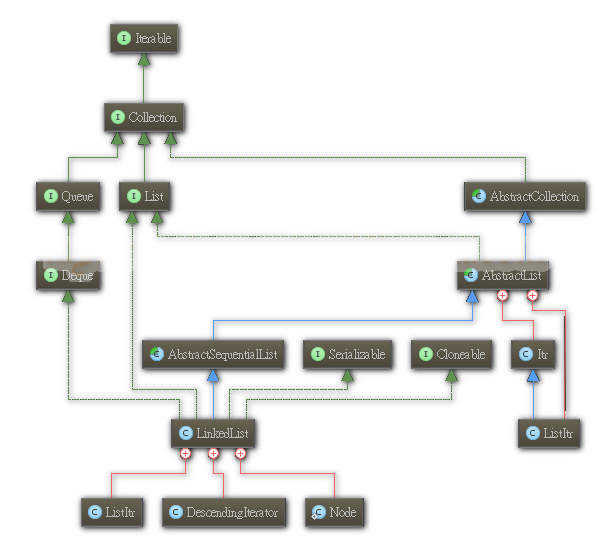
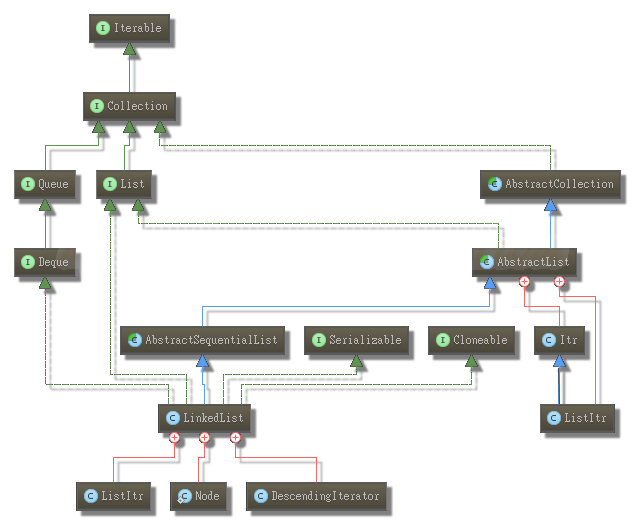
Collections -- LinkedList 相關 【由於 LinkedList 引用了Deque，所以先學習Queue相關 ,現在回來學習 LinkedList

Changed region(s): [[0.0, 0.0, 1.0, 1.0]]

diff --git a/source/_posts/Collections-LinkedBlockingDeque.md b/source/_posts/Collections-LinkedBlockingDeque.md
@@ -6,16 +6,274 @@ tags:
 - JDK1.7
 ---
 > 簡介：JDK 1.7 Collections 之 LinkedBlockingDeque 詳解 (十二)
-> _由於LinkedList引用了Deque,所以這一節先學習Queue接口相關_
+> _由於LinkedList引用了Deque,所以這一節先學習Queue接口相關，本實現類使用了JUC下的ReentrantLock鎖類，該類在學習鎖時詳細學習_
 > 這一節主要學習集合框架中的 LinkedBlockingDeque 成員屬性、方法等具體實現
 > 相關源碼分析及詳細api文檔移路→[Collection接口https://github.com/myhongkongzhen/pro-study-jdk/](https://github.com/myhongkongzhen/pro-study-jdk/tree/master/src/main/java/z/z/w/jdk/collections)
 
 <!--more-->
 
 ### LinkedBlockingDeque 說明:
+> 三個內部類
+```
+static final class Node<E> { ... } // 雙向列表節點
+private abstract class AbstractItr implements Iterator<E> { ... } // 迭代器抽象類
+private class Itr extends AbstractItr { ... } // 升序
+private class DescendingItr extends AbstractItr { .. } // 降序
+```
+> 線程安全的實現方式
+```
+final ReentrantLock lock = new ReentrantLock();
+private final Condition notEmpty = lock.newCondition();
+private final Condition notFull = lock.newCondition();
+```
 
 ### LinkedBlockingDeque UML:
 <img src="/images/Collections/Collection-LinkedBlockingDeque.png"  />
 
 ### LinkedBlockingDeque 源碼解析:
+```
 
+	/** Doubly-linked list node class */
+	/** 雙端鏈錶節點類 */
+	static final class Node<E> {
+		/**
+		 * The item, or null if this node has been removed.
+		 * 條目，如果已經刪除，則為null
+		 */
+		E item;
+
+		/**
+		 * One of:
+		 * - the real predecessor Node
+		 * - 真實的前任節點
+		 * - this Node, meaning the predecessor is tail
+		 * - 這個節點，意味著前任為結尾
+		 * - null, meaning there is no predecessor
+		 * - null，意味著沒有前任
+		 */
+		Node<E> prev;
+
+		/**
+		 * One of:
+		 * - the real successor Node
+		 * - 真實的後繼
+		 * - this Node, meaning the successor is head
+		 * - 節點，意味著後繼為頭
+		 * - null, meaning there is no successor
+		 * - null,意味著沒有後繼
+		 */
+		Node<E> next;
+
+		Node(E x) {
+			item = x;
+		}
+	}
+
+	/** Main lock guarding all access */
+	/** 所有存儲訪問的主要守護鎖 */
+	final ReentrantLock lock = new ReentrantLock();
+
+	/** Condition for waiting takes 等待取出條件 */
+	private final Condition notEmpty = lock.newCondition();
+
+	/** Condition for waiting puts 等待放置條件 */
+	private final Condition notFull = lock.newCondition();
+
+	/**
+	 * Creates a {@code LinkedBlockingDeque} with a capacity of
+	 * {@link Integer#MAX_VALUE}, initially containing the elements of
+	 * the given collection, added in traversal order of the
+	 * collection's iterator.
+	 * 按照添加的集合迭代遍歷順序
+	 *
+	 * @param c the collection of elements to initially contain
+	 * @throws NullPointerException if the specified collection or any
+	 *         of its elements are null
+	 *         如果指定的集合或者他的任意元素為null，拋出異常
+	 */
+	public LinkedBlockingDeque( Collection<? extends E> c) {
+		this(Integer.MAX_VALUE);
+		final ReentrantLock lock = this.lock;
+		lock.lock(); // Never contended, but necessary for visibility
+		try {
+			for (E e : c) {
+				if (e == null)
+					throw new NullPointerException();
+				if (!linkLast(new Node<E>(e)))
+					throw new IllegalStateException("Deque full");
+			}
+		} finally {
+			lock.unlock();
+		}
+	}
+
+	/**
+	 * Returns the number of additional elements that this deque can ideally
+	 * 返回隊列理想情況無阻賽訪問的元素的數量
+	 * (in the absence of memory or resource constraints) accept without
+	 * (在內存不足或資源)
+	 * blocking. This is always equal to the initial capacity of this deque
+	 * less the current {@code size} of this deque.
+	 *
+	 * <p>Note that you <em>cannot</em> always tell if an attempt to insert
+	 * an element will succeed by inspecting {@code remainingCapacity}
+	 * because it may be the case that another thread is about to
+	 * insert or remove an element.
+	 */
+	public int remainingCapacity() {
+		final ReentrantLock lock = this.lock;
+		lock.lock();
+		try {
+			return capacity - count;
+		} finally {
+			lock.unlock();
+		}
+	}
+
+	/**
+	 * Returns an array containing all of the elements in this deque, in
+	 * proper sequence; the runtime type of the returned array is that of
+	 * the specified array.  If the deque fits in the specified array, it
+	 * is returned therein.  Otherwise, a new array is allocated with the
+	 * runtime type of the specified array and the size of this deque.
+	 *
+	 * <p>If this deque fits in the specified array with room to spare
+	 * (i.e., the array has more elements than this deque), the element in
+	 * the array immediately following the end of the deque is set to
+	 * {@code null}.
+	 *
+	 * <p>Like the {@link #toArray()} method, this method acts as bridge between
+	 * array-based and collection-based APIs.  Further, this method allows
+	 * precise control over the runtime type of the output array, and may,
+	 * 精確
+	 * under certain circumstances, be used to save allocation costs.
+	 *               情況
+	 *
+	 * <p>Suppose {@code x} is a deque known to contain only strings.
+	 * The following code can be used to dump the deque into a newly
+	 * allocated array of {@code String}:
+	 *
+	 * <pre>
+	 *     String[] y = x.toArray(new String[0]);</pre>
+	 *
+	 * Note that {@code toArray(new Object[0])} is identical in function to
+	 * {@code toArray()}.
+	 *
+	 * @param a the array into which the elements of the deque are to
+	 *          be stored, if it is big enough; otherwise, a new array of the
+	 *          same runtime type is allocated for this purpose
+	 * @return an array containing all of the elements in this deque
+	 * @throws ArrayStoreException if the runtime type of the specified array
+	 *         is not a supertype of the runtime type of every element in
+	 *         this deque
+	 * @throws NullPointerException if the specified array is null
+	 */
+	@SuppressWarnings("unchecked")
+	public <T> T[] toArray(T[] a) {
+		final ReentrantLock lock = this.lock;
+		lock.lock();
+		try {
+			if (a.length < count)
+				a = (T[])java.lang.reflect.Array.newInstance
+						(a.getClass().getComponentType(), count);
+
+			int k = 0;
+			for (Node<E> p = first; p != null; p = p.next)
+				a[k++] = (T)p.item;
+			if (a.length > k)
+				a[k] = null;
+			return a;
+		} finally {
+			lock.unlock();
+		}
+	}
+
+// 插入刪除主要操作
+
+	// Basic linking and unlinking operations, called only while holding lock
+
+	/**
+	 * Links node as first element, or returns false if full.
+	 */
+	private boolean linkFirst(Node<E> node) {
+		// assert lock.isHeldByCurrentThread();
+		if (count >= capacity)
+			return false;
+		Node<E> f = first;
+		node.next = f;
+		first = node;
+		if (last == null)
+			last = node;
+		else
+			f.prev = node;
+		++count;
+		notEmpty.signal();
+		return true;
+	}
+
+	/**
+	 * Links node as last element, or returns false if full.
+	 * 連邊節點最後一個元素，或者如果full返回false
+	 */
+	private boolean linkLast(Node<E> node) {
+		// assert lock.isHeldByCurrentThread();
+		if (count >= capacity)
+			return false;
+		Node<E> l = last;
+		node.prev = l;
+		last = node;
+		if (first == null)
+			first = node;
+		else
+			l.next = node;
+		++count;
+		notEmpty.signal();
+		return true;
+	}
+
+	/**
+	 * Removes and returns first element, or null if empty.
+	 */
+	private E unlinkFirst() {
+		// assert lock.isHeldByCurrentThread();
+		Node<E> f = first;
+		if (f == null)
+			return null;
+		Node<E> n = f.next;
+		E item = f.item;
+		f.item = null;
+		f.next = f; // help GC
+		first = n;
+		if (n == null)
+			last = null;
+		else
+			n.prev = null;
+		--count;
+		notFull.signal();
+		return item;
+	}
+
+	/**
+	 * Removes and returns last element, or null if empty.
+	 */
+	private E unlinkLast() {
+		// assert lock.isHeldByCurrentThread();
+		Node<E> l = last;
+		if (l == null)
+			return null;
+		Node<E> p = l.prev;
+		E item = l.item;
+		l.item = null;
+		l.prev = l; // help GC
+		last = p;
+		if (p == null)
+			first = null;
+		else
+			p.next = null;
+		--count;
+		notFull.signal();
+		return item;
+	}
+
+
+```

diff --git a/source/_posts/Collections-LinkedList.md b/source/_posts/Collections-LinkedList.md
@@ -1,0 +1,21 @@
+title: Collections -- LinkedList -- (十六)
+date: 2015-12-14 11:38:05
+categories: 技術
+tags:
+- JAVA
+- JDK1.7
+---
+> 簡介：JDK 1.7 Collections 之 LinkedList 詳解 (十三)
+> _由於LinkedList引用了Deque,先學習了Queue接口相關，現在回來學習LinkedList_
+> 這一節主要學習集合框架中的 LinkedList 成員屬性、方法等具體實現
+> 相關源碼分析及詳細api文檔移路→[Collection接口https://github.com/myhongkongzhen/pro-study-jdk/](https://github.com/myhongkongzhen/pro-study-jdk/tree/master/src/main/java/z/z/w/jdk/collections)
+
+<!--more-->
+
+### LinkedList 說明:
+
+### LinkedList UML:
+<img src="/images/Collections/Collection-LinkedList.png"  />
+
+### LinkedList 源碼解析:
+
